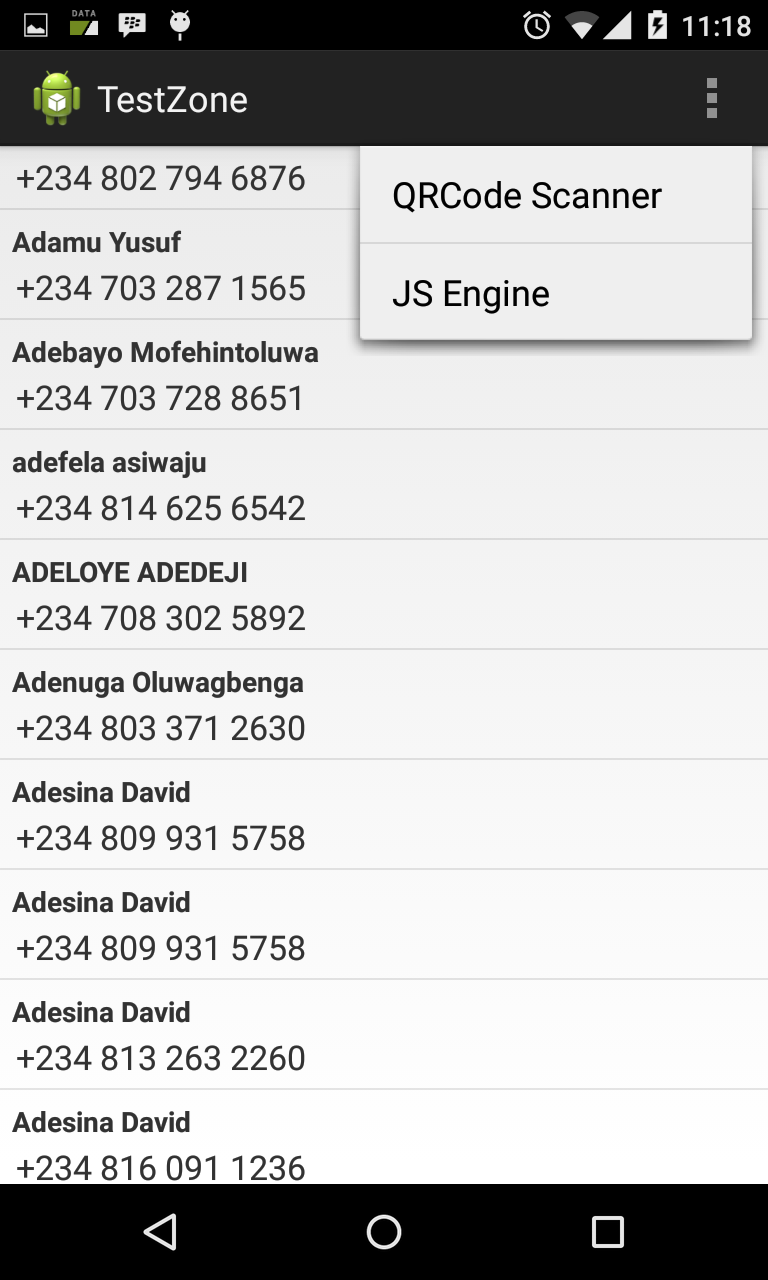
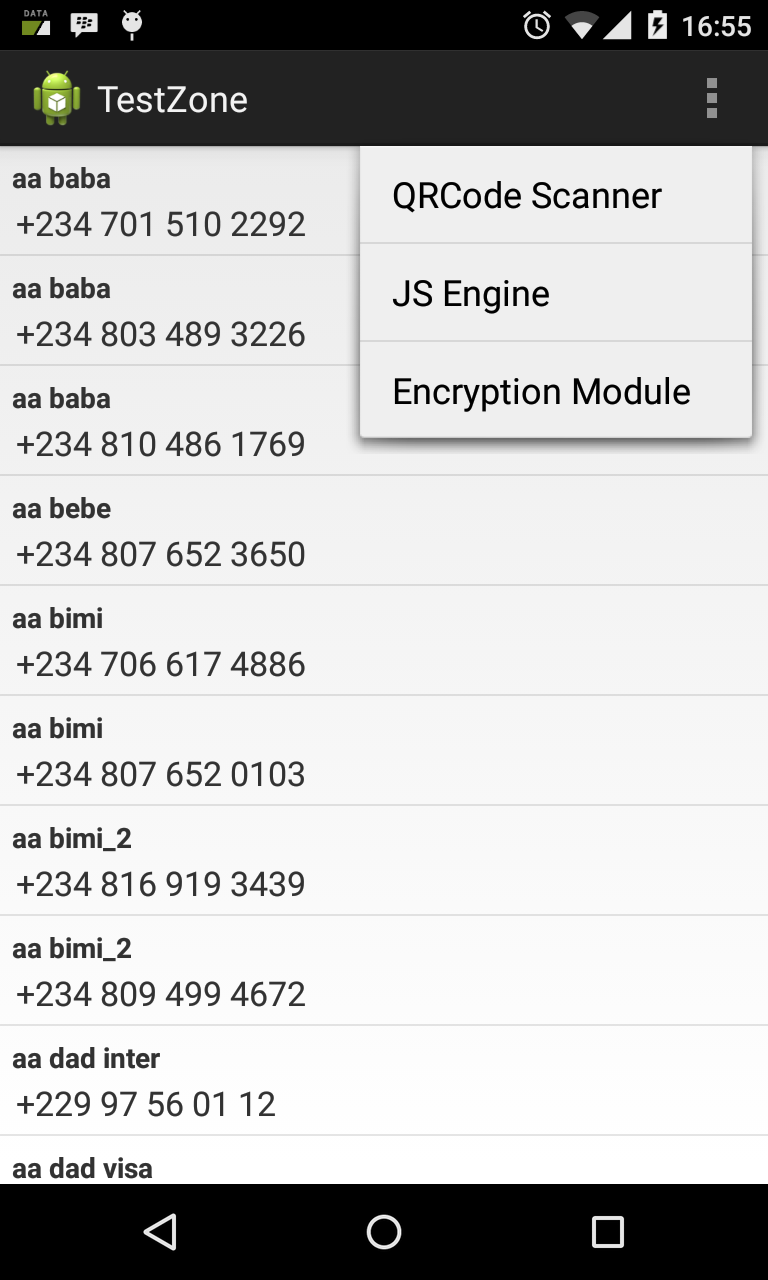
added image samples of encryption module in use

diff --git a/README.md b/README.md
@@ -33,4 +33,18 @@ A simple android test application to validate and test options integrated with t
 
 ![alt text](../master/imgs/js_func_5.png?raw=true "JavaScript Function Evaluator")
 
-> More Code samples would be added as iteration grows.
+### Encryption Modules
+
+![alt text](../master/imgs/encrypt_1.png?raw=true "Encryption Module")
+
+![alt text](../master/imgs/encrypt_2.png?raw=true "Encryption Module")
+
+### Decryption Modules
+
+![alt text](../master/imgs/decrypt_1.png?raw=true "Decryption Module")
+
+![alt text](../master/imgs/decrypt_2.png?raw=true "Decryption Module")
+
+![alt text](../master/imgs/decrypt_3.png?raw=true "Decryption Module")
+
+> More examples would be added iteratively.
